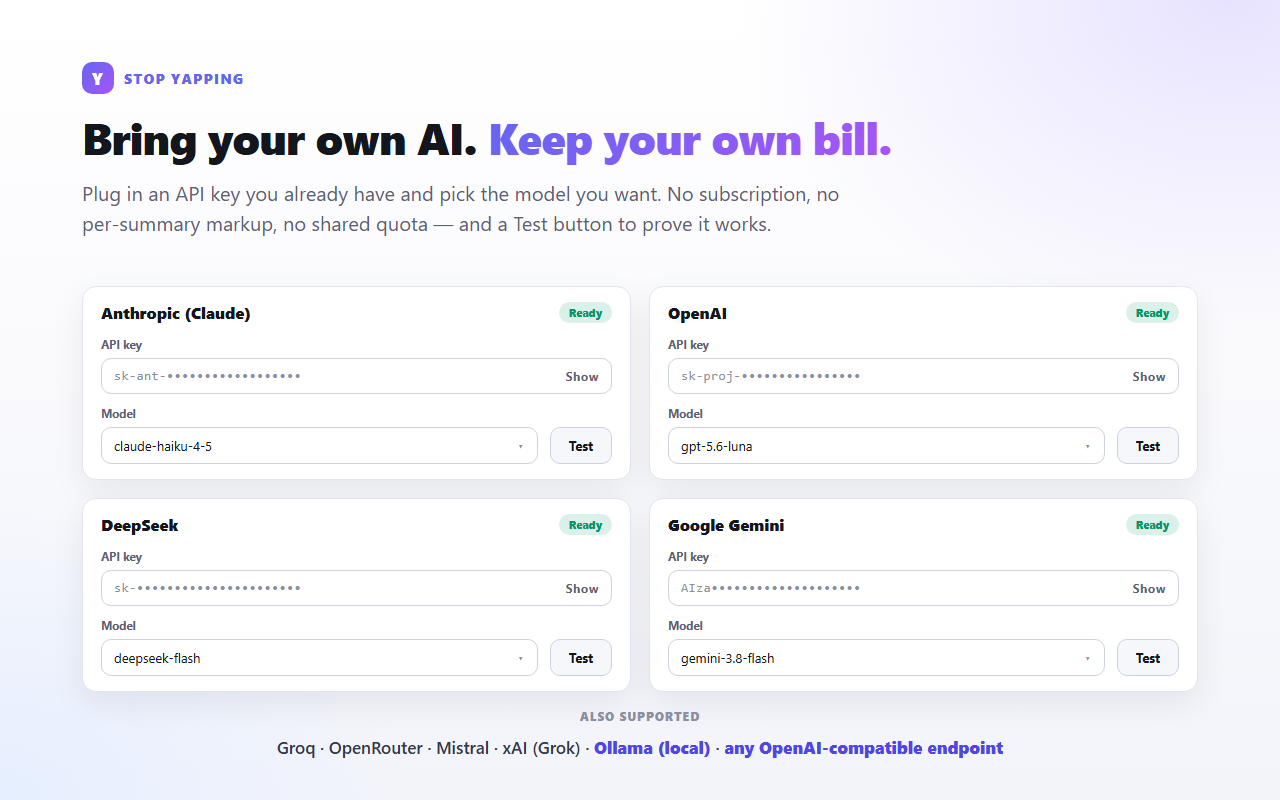
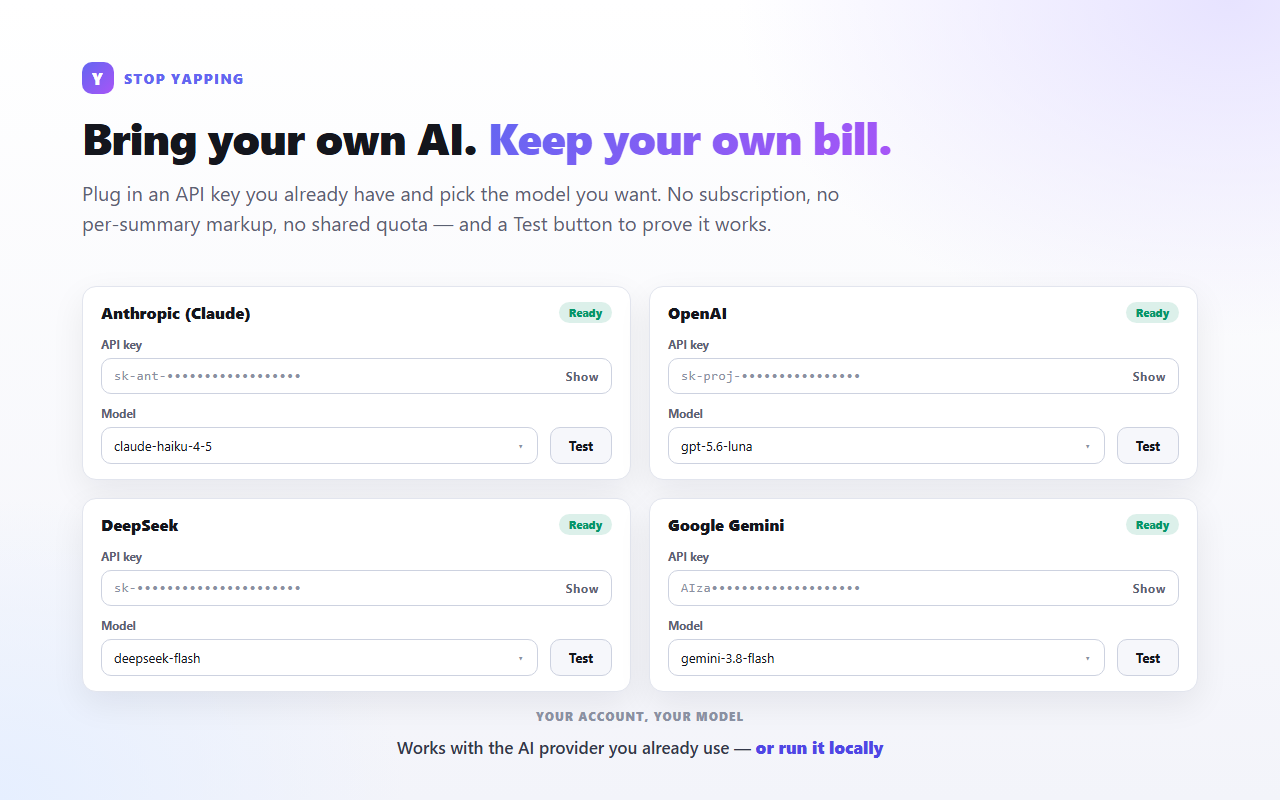
Remove provider keyword list from metadata and screenshot; bump to 1.0.2

Changed region(s): [[0.2188, 0.875, 0.7812, 0.9688]]

diff --git a/store-assets/shot-2.html b/store-assets/shot-2.html
@@ -105,8 +105,8 @@
     </div>
 
     <div class="strip">
-      <div class="label">Also supported</div>
-      <div class="names">Groq · OpenRouter · Mistral · xAI (Grok) · <b>Ollama (local)</b> · <b>any OpenAI-compatible endpoint</b></div>
+      <div class="label">Your account, your model</div>
+      <div class="names">Works with the AI provider you already use — <b>or run it locally</b></div>
     </div>
   </div>
 </body>
